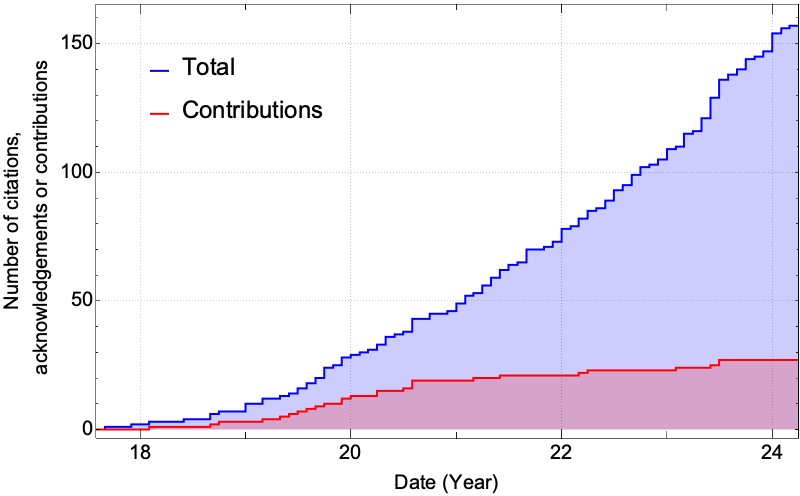
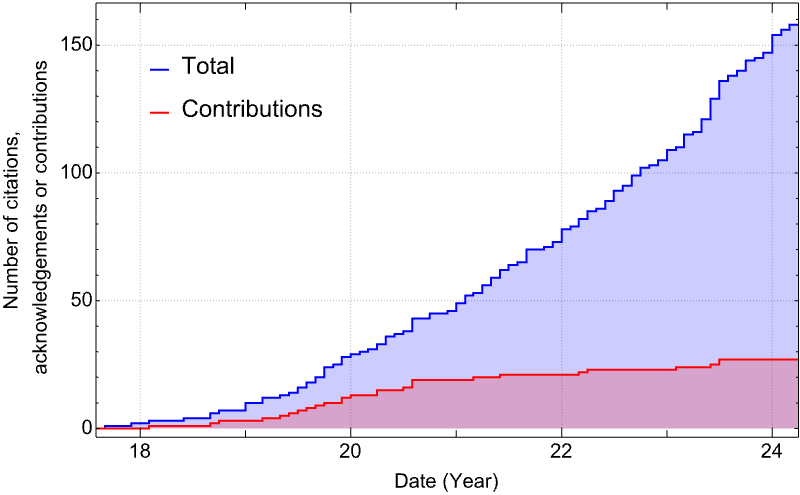
Add paper the cites the BHPToolkit

diff --git a/users.md b/users.md
@@ -19,6 +19,8 @@ The graph below show the accumulated citations to the Toolkit over time. The blu
 
 Below is a list of research papers that have used or extended the Toolkit. Papers that have contributed code or data to the Toolkit have a (*) after them.
 
+158\. "Implementation of a GHZ-Teukolsky puncture scheme for gravitational self-force calculations", Patrick Bourg, Benjamin Leather, Marc Casals, Adam Pound, Barry Wardell, [arXiv:2403.12634](https://arxiv.org/abs/2403.12634)
+
 157\. "Worldtube excision method for intermediate-mass-ratio inspirals: self-consistent evolution in a scalar-charge model", Nikolas A. Wittek, Adam Pound, Harald P. Pfeiffer, Leor Barack, [arXiv:2403.08864](https://arxiv.org/abs/2403.08864)
 
 156\. "Conserved currents for Kerr and orthogonality of quasinormal modes", Stephen R. Green, Stefan Hollands, Laura Sberna, Vahid Toomani, Peter Zimmerman, [arXiv:2210.15935](https://arxiv.org/abs/2210.15935)
